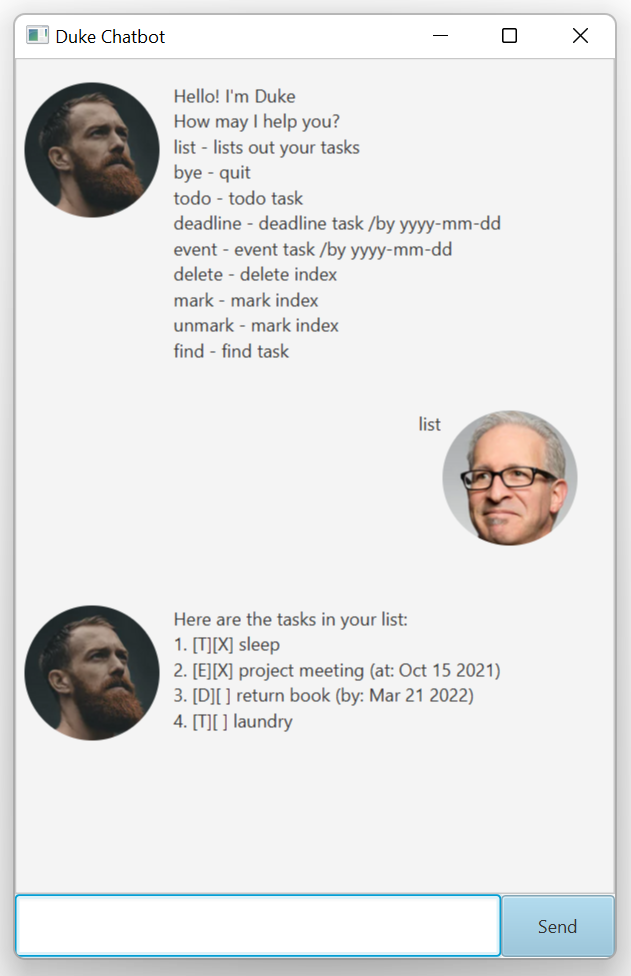
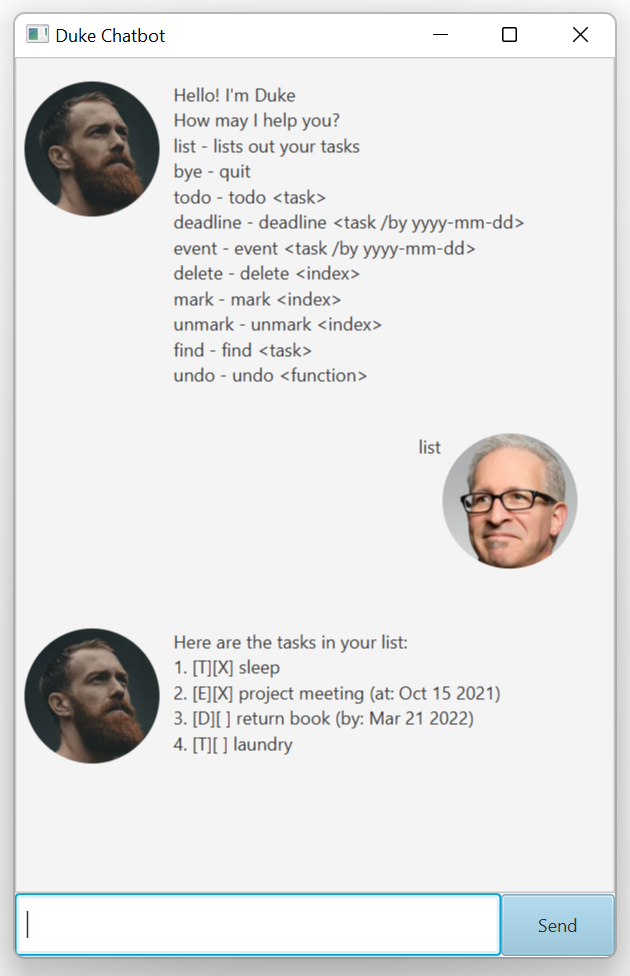
Update README document

diff --git a/src/main/java/Duke/Ui.java b/src/main/java/Duke/Ui.java
@@ -25,9 +25,10 @@ public class Ui {
     public String showWelcome() {
         sb = new StringBuilder();
         sb.append("Hello! I'm Duke\nHow may I help you?\n");
-        sb.append("list - lists out your tasks\nbye - quit\ntodo - todo task\n"
-                + "deadline - deadline task /by yyyy-mm-dd\nevent - event task /by yyyy-mm-dd\n"
-                + "delete - delete index\nmark - mark index\nunmark - mark index\nfind - find task");
+        sb.append("list - lists out your tasks\nbye - quit\ntodo - todo <task>\n"
+                + "deadline - deadline <task /by yyyy-mm-dd>\nevent - event <task /by yyyy-mm-dd>\n"
+                + "delete - delete <index>\nmark - mark <index>\nunmark - unmark <index>\nfind - find <task>\n"
+                + "undo - undo <function>");
         return sb.toString();
     }
 

diff --git a/docs/README.md b/docs/README.md
@@ -1,29 +1,222 @@
 # User Guide
 
-## Features 
+## Features
 
-### Feature-ABC
+### 1. Feature - List tasks
 
-Description of the feature.
+Displays all your tasks.
 
-### Feature-XYZ
+### 2. Feature - Add todo
 
-Description of the feature.
+Adds a todo to your list of tasks.
+
+### 3. Feature - Add deadline
+
+Adds a deadline to your list of tasks.
+
+### 4. Feature - Add event
+
+Adds an event to your list of tasks.
+
+### 5. Feature - Mark Done
+
+Indicates a task as done.
+
+### 6. Feature - Unmark Done
+
+Indicates a task as not done.
+
+### 7. Feature - Delete task
+
+Deletes a task from your list of tasks.
+
+### 8. Feature - Find task
+
+Finds all the tasks containing the specified keyword.
+
+### 9. Feature - Undo action
+
+Reverses the last modifying action performed.
+
+### 10. Feature - Quit chatbot
+
+Quits the chatbot.
 
 ## Usage
 
-### `Keyword` - Describe action
+### 1. `list` - Displays all your tasks
 
-Describe the action and its outcome.
+Entering "list" displays all your tasks.
 
-Example of usage: 
+Example of usage:
 
-`keyword (optional arguments)`
+`list`
 
 Expected outcome:
 
-Description of the outcome.
+Displays all tasks.
 
 ```
-expected output
+Here are the tasks in your list:
+1. [T][ ] borrow book
+2. [D][ ] return book (by: Sunday)
+3. [E][ ] project meeting (at: Mon 2-4pm)
+```
+
+### 2. `todo` - Adds a todo to your task list
+
+Entering "todo <task name>" adds the todo to your task list.
+
+Example of usage:
+
+`todo borrow book`
+
+Expected outcome:
+
+Adds the todo to task list.
+
+```
+Got it. I've added this task:
+[T][ ] borrow book
+Now you have 1 task in the list.
+```
+
+### 3. `deadline` - Adds a deadline to your task list
+
+Entering "deadline <task name> /by yyyy-mm-dd" adds the deadline to your task list.
+
+Example of usage:
+
+`deadline return book /by 2022-03-21`
+
+Expected outcome:
+
+Adds the deadline to task list.
+
+```
+Got it. I've added this task:
+[D][ ] return book (by: Sunday)
+Now you have 2 tasks in the list.
+```
+
+### 4. `event` - Adds an event to your task list
+
+Entering "event <task name> /at yyyy-mm-dd" adds the event to your task list.
+
+Example of usage:
+
+`event project meeting /at 2021-10-15`
+
+Expected outcome:
+
+Adds the event to task list.
+
+```
+Got it. I've added this task:
+[E][ ] project meeting (at: Mon 2-4pm)
+Now you have 3 tasks in the list.
+```
+
+### 5. `mark` - Marks a task as done
+
+Entering "mark <index>" puts an X for task at that index.
+
+Example of usage:
+
+`mark 1`
+
+Expected outcome:
+
+Marks the task as done.
+
+```
+Nice! I've marked this task as done:
+[X] borrow book
+```
+
+### 6. `unmark` - Marks a task as done
+
+Entering "unmark <index>" removes the X for task at that index.
+
+Example of usage:
+
+`unmark 1`
+
+Expected outcome:
+
+Unmarks the task as done.
+
+```
+Ok, I've marked this task as not done yet:
+[ ] borrow book
+```
+
+### 7. `delete` - Deletes a task from your task list
+
+Entering "delete <index>" deletes the task at that index.
+
+Example of usage:
+
+`delete 3`
+
+Expected outcome:
+
+Deletes the task from task list.
+
+```
+Noted. I've removed this task:
+[D][] project meeting
+Now you have 2 tasks in the list. 
+```
+
+### 8. `find` - Finds all tasks with keyword in your task list
+
+Entering "find <keyword>" finds all task containing <keyword> in your task list.
+
+Example of usage:
+
+`find book`
+
+Expected outcome:
+
+Finds all corresponding tasks.
+
+```
+Here are the matching tasks in your list:
+1. [T][ ] borrow book
+2. [D][ ] return book (by: Sunday)
+```
+
+### 9. `undo` - Reverses the last modifying command
+
+Entering "undo" reverses the last modifying command.
+
+Example of usage:
+
+`undo`
+
+Expected outcome:
+
+Reverses the last modifying command.
+
+```
+Noted. I've removed this task:
+[T][ ] do laundry
+Now you have 3 tasks in the list.
+```
+
+### 10. `bye` - Quits the chatbot
+
+Entering "bye" quits the chatbot.
+
+Example of usage:
+
+`bye`
+
+Expected outcome:
+
+Displays quit message.
+
+```
+Bye. Hope to see you again soon!
 ```
